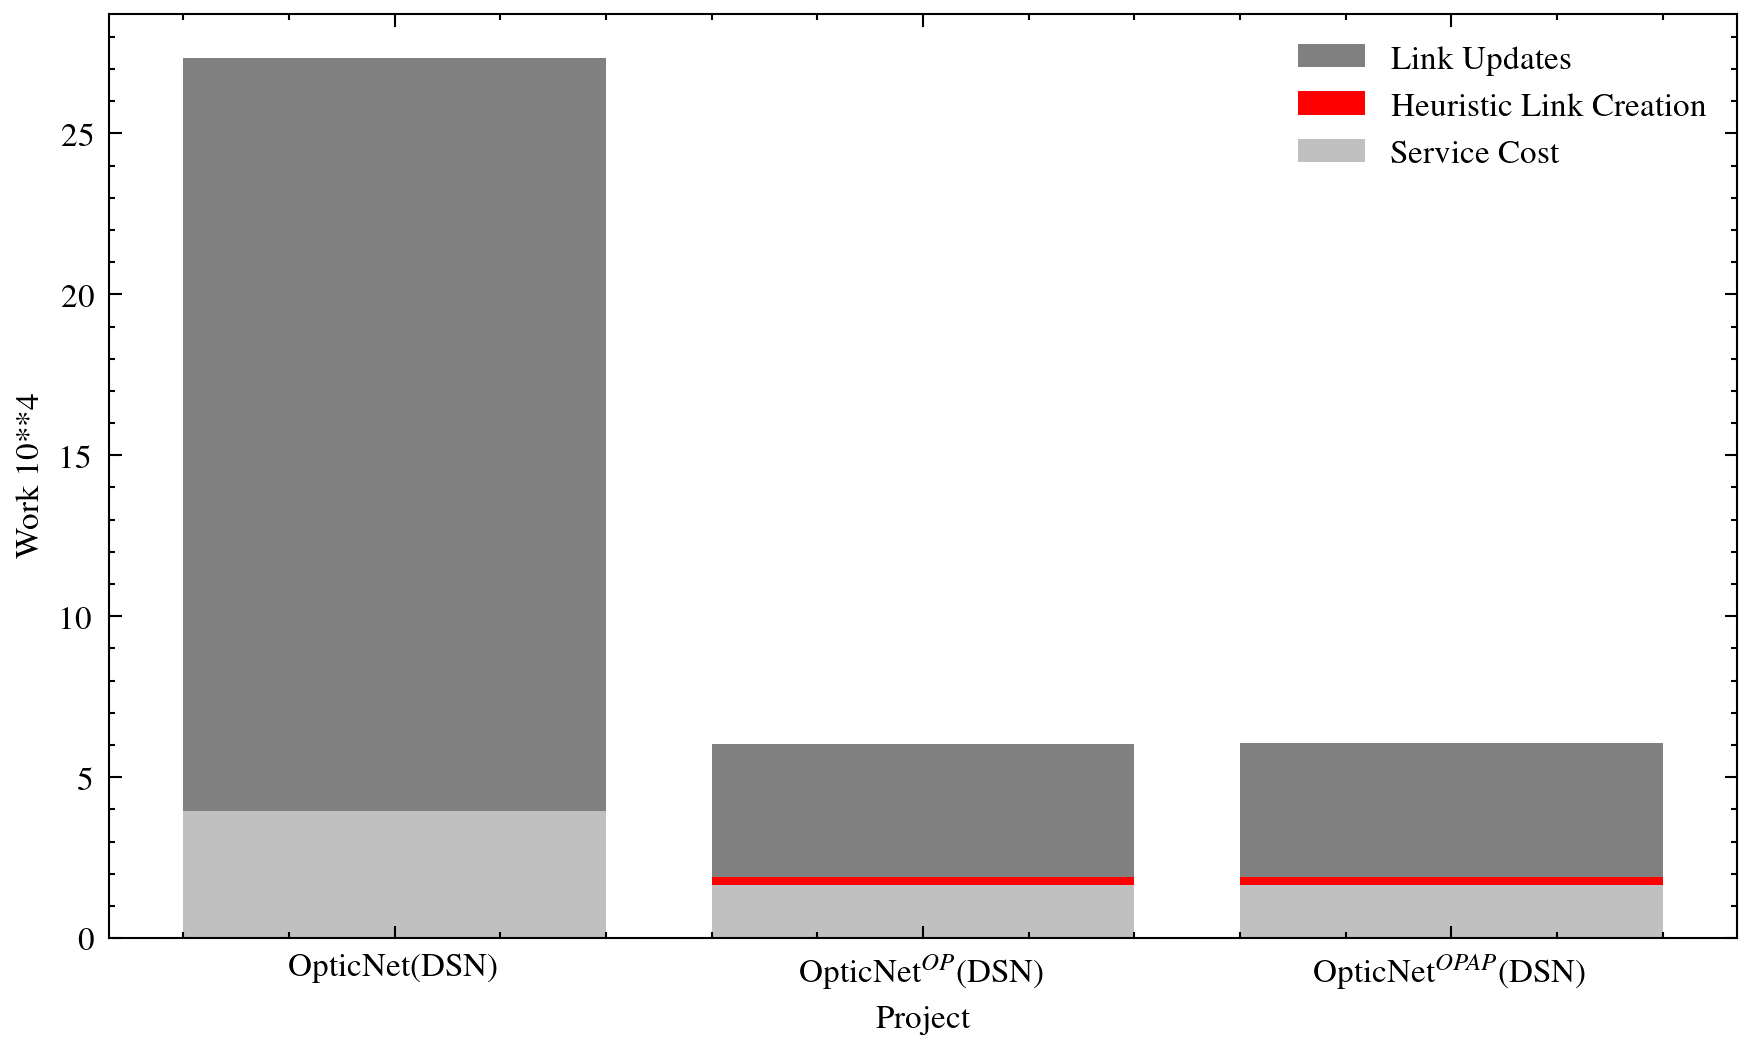
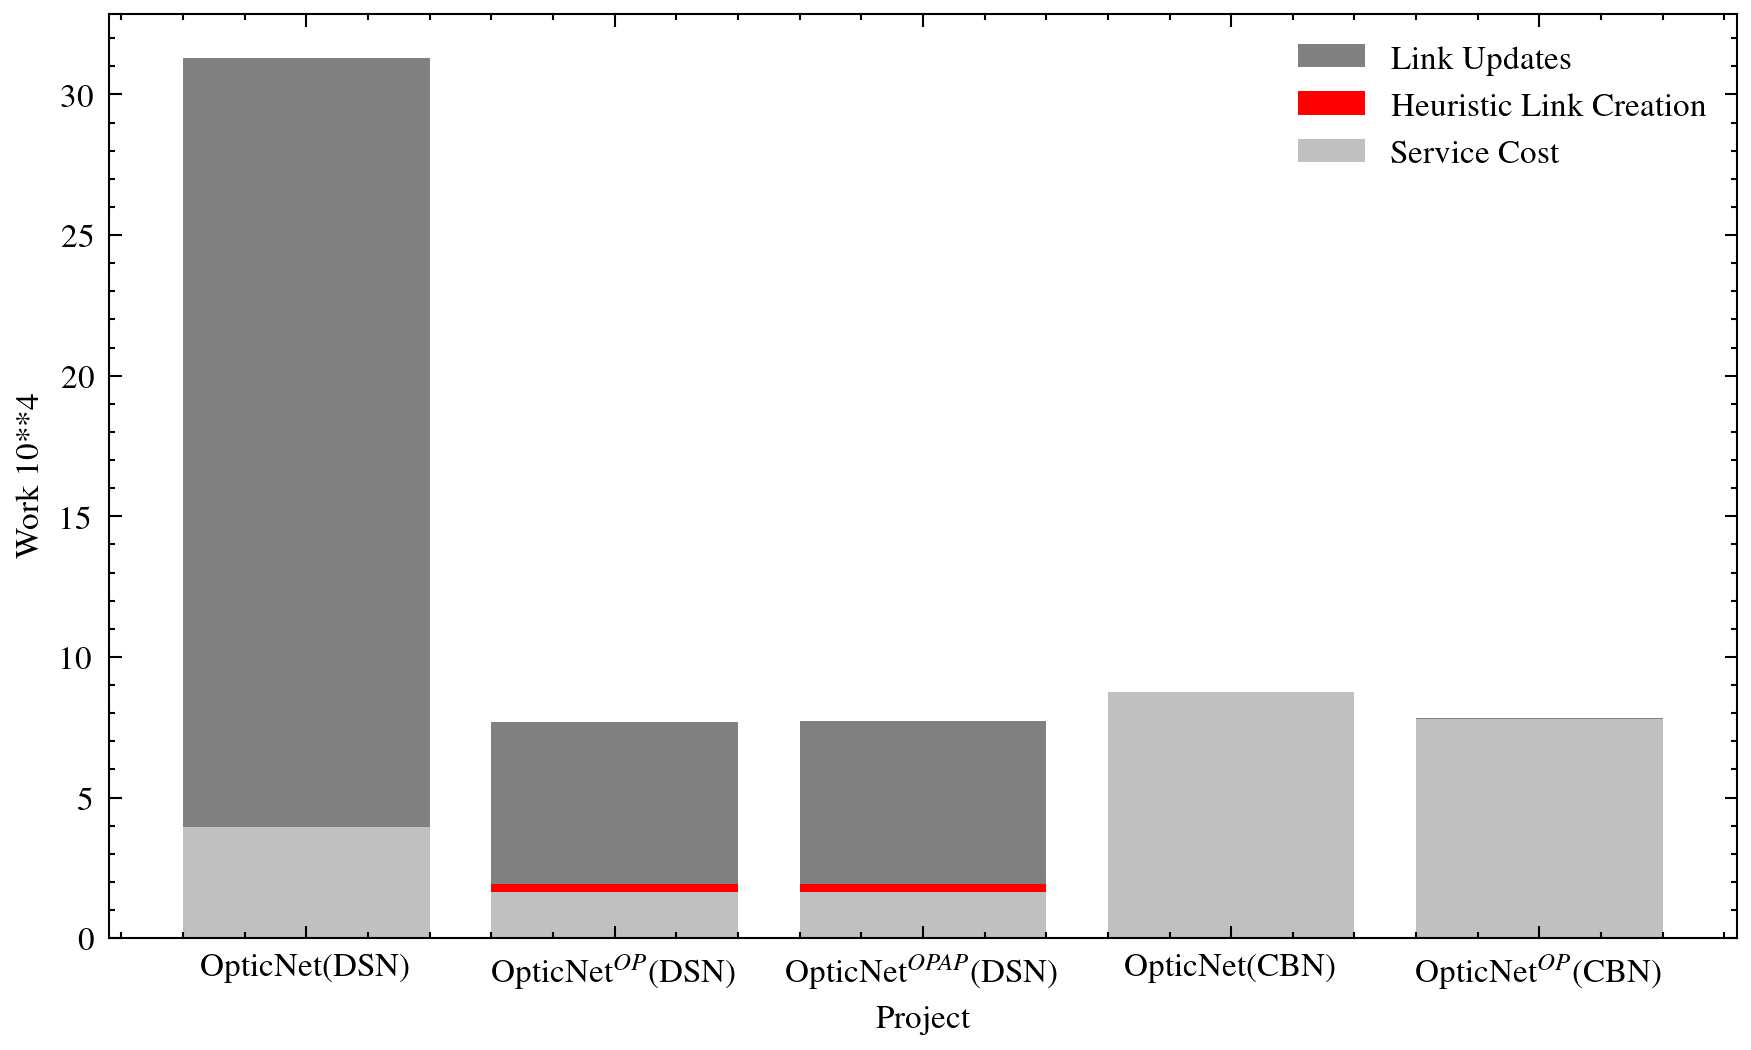
plot num of rounds

diff --git a/plotter/Plotter.py b/plotter/Plotter.py
@@ -43,7 +43,7 @@ class Plotter:
             rounds = data.read_rounds()            
 
             project_names.append(project_name)
-            all_datasets_rounds.append(rounds.mean())
+            all_datasets_rounds.append(rounds.mean()/normalize)
 
         if ax is None:
             fig, ax = plt.subplots(figsize=(8, 4))
@@ -94,10 +94,12 @@ class Plotter:
             ax.set_title("Total Work")
             ax.set_xlabel("Project")
             ax.set_ylabel("Work * 10 ^ 4")
-        print(len((routing_means + heuristic_link_creation)))
+            
+        
+        bottom1 = [x + y for x, y in zip(heuristic_link_creation, routing_means)]
         ax.bar(
             project_names, alteration_means, 
-            bottom=heuristic_link_creation, label="Link Updates",  color=["grey"]
+            bottom=bottom1, label="Link Updates",  color=["grey"]
         )
         ax.bar(
             project_names, heuristic_link_creation, 

diff --git a/plotter/plot_script.py b/plotter/plot_script.py
@@ -108,10 +108,10 @@ for i in range(num_datasets):
     print("finish")
 
     fig, ax = plt.subplots(figsize=(7, 4))
-    ax.set_ylabel("Rounds")
+    ax.set_ylabel("Rounds 10**3")
     ax.set_xlabel("Project")
 
-    Plotter.Plotter.total_rounds(tor_data[slc], normalize=1e4, ax=ax)
+    Plotter.Plotter.total_rounds(tor_data[slc], normalize=1e3, ax=ax)
 
     ax.plot()
     fig.savefig(f"output/{output_folder[i]}/rounds.png", dpi=300, transparent=False)
